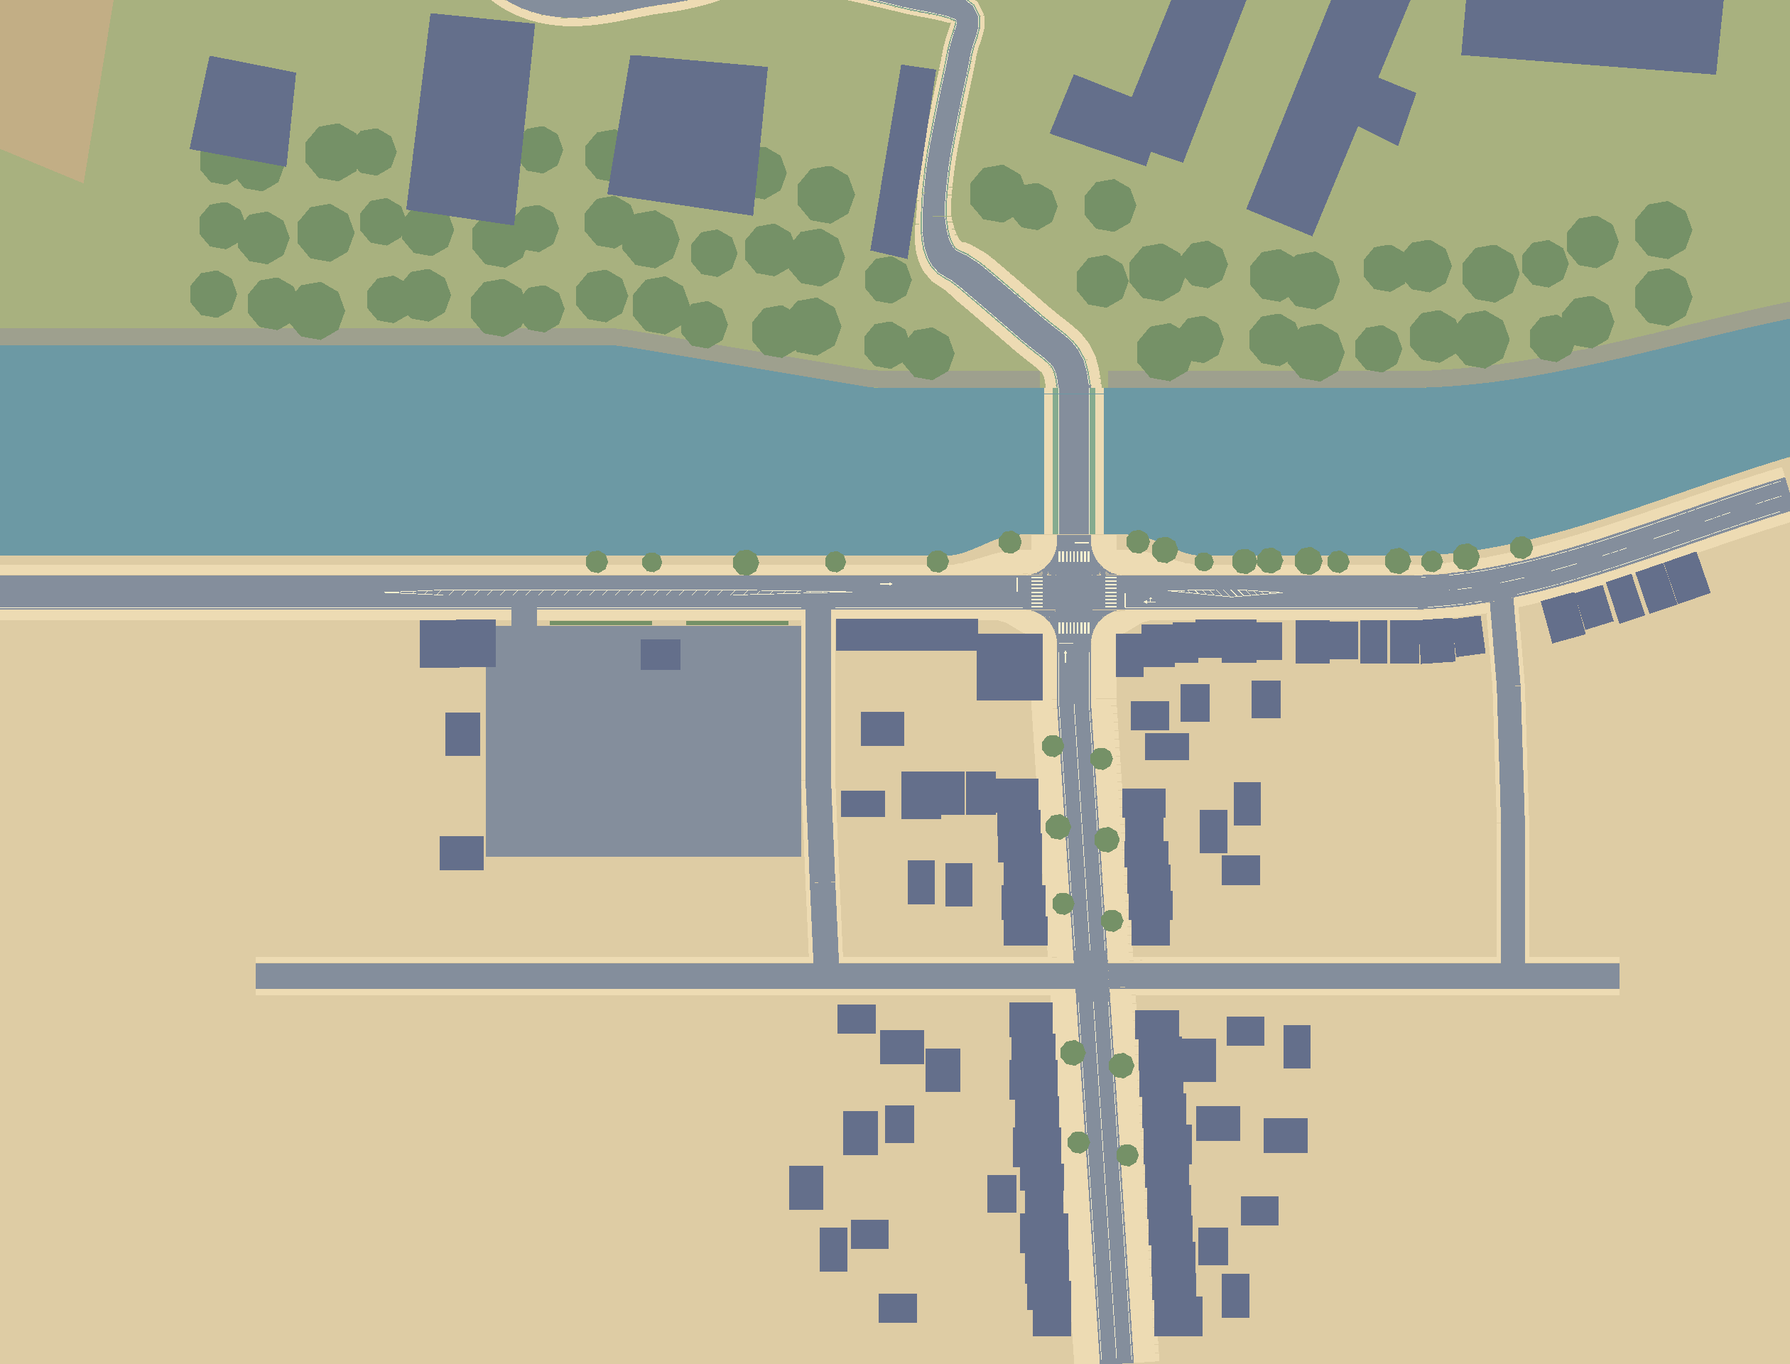
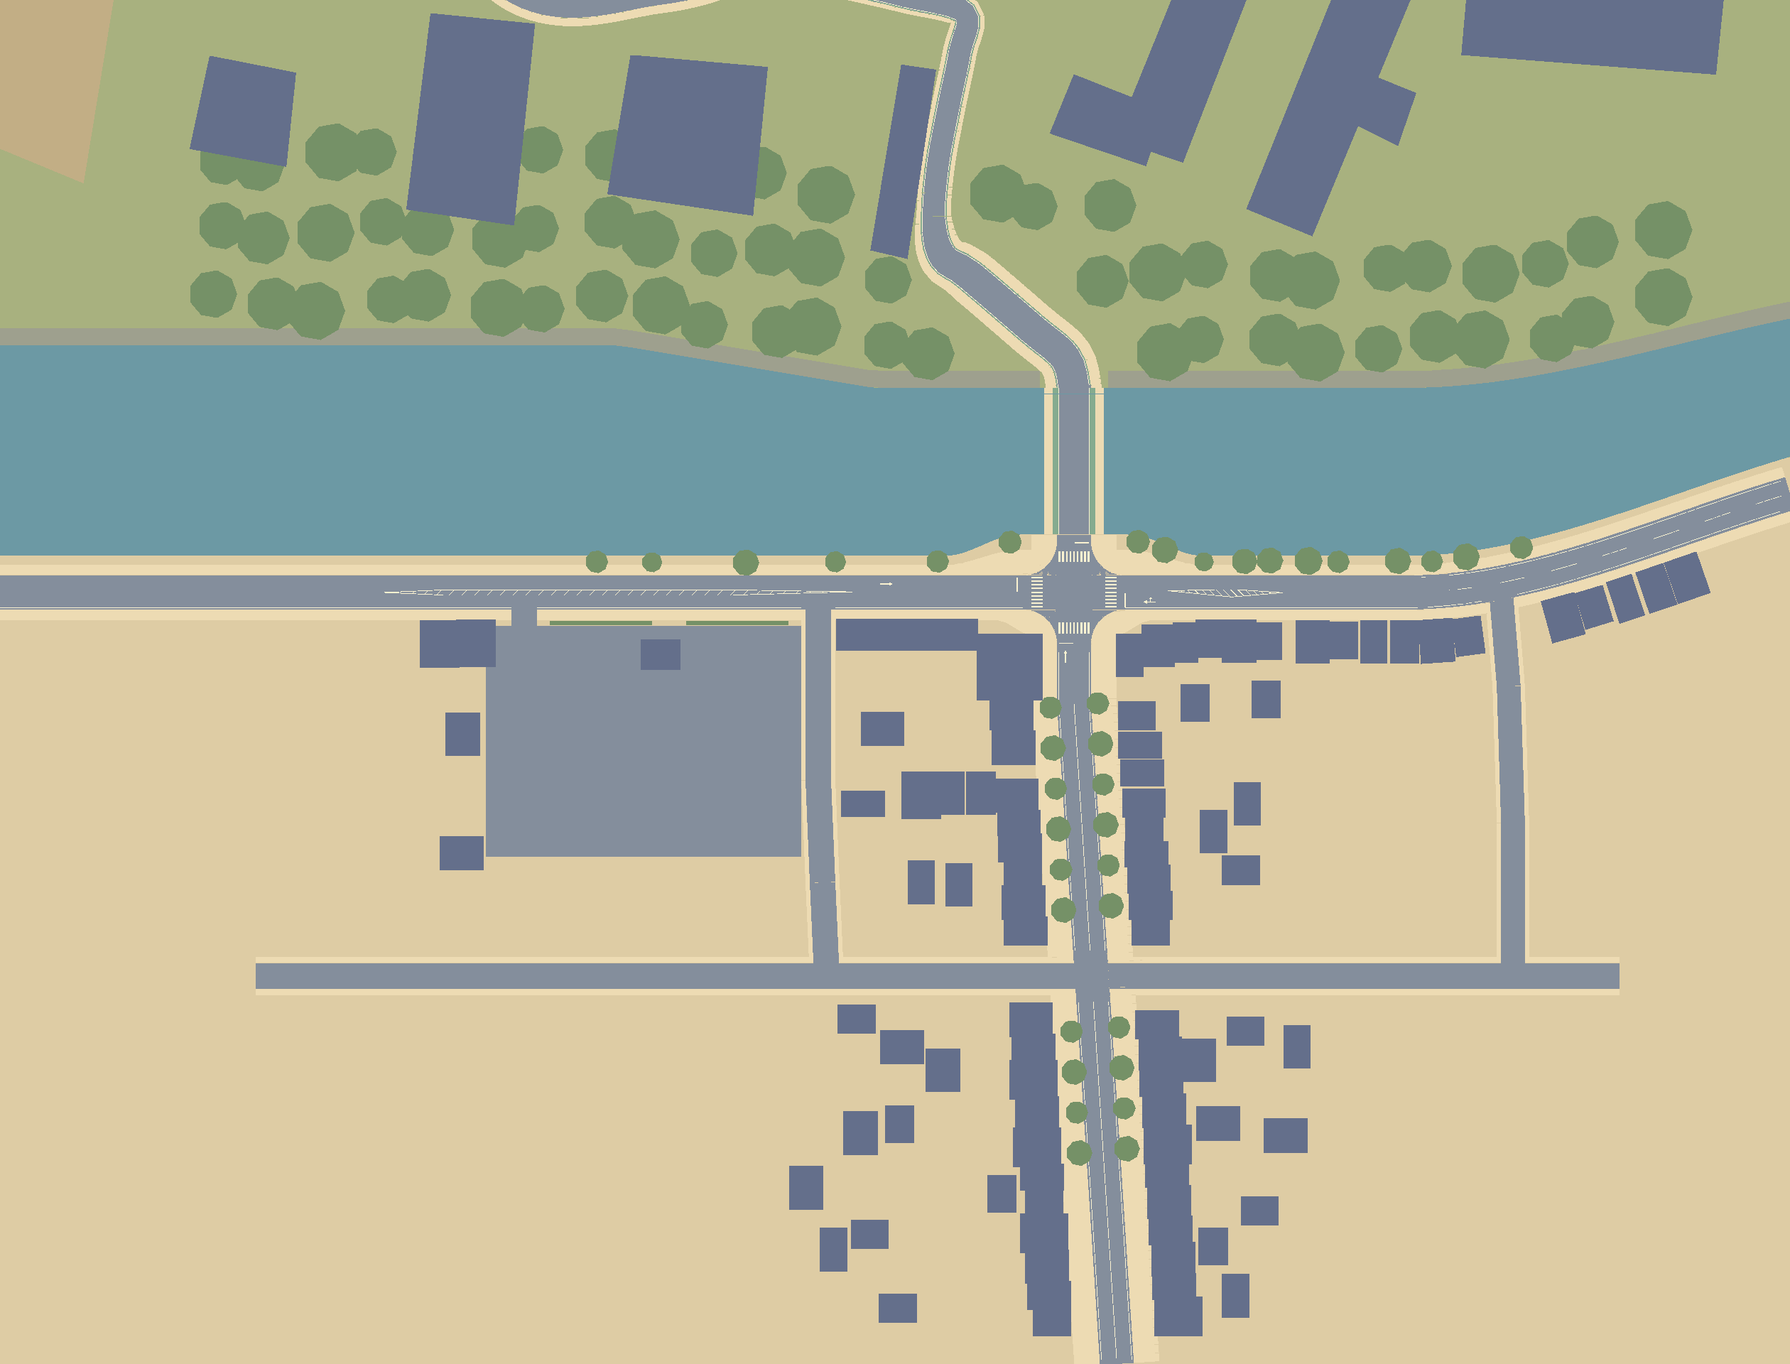
feat(scene): match Castle Road to Street View and the overhead image
Add the blue cantilevered direction sign on Castle Road's west pavement
just south of the junction, showing only the legible destinations
(東近江, E1 名神, 国道8号/Route 8). Plant both kerbs at ~9.5 m to match
the near-continuous canopy, close the frontage gaps beside the junction,
and drop the imported cedars and pines scattered through the town
blocks, which the overhead image does not show.

Changed region(s): [[0.5262, 0.5, 0.681, 0.6875], [0.5881, 0.75, 0.65, 0.875]]

diff --git a/src/signals.js b/src/signals.js
@@ -5,7 +5,7 @@ import { mergeGeometries } from 'three/addons/utils/BufferGeometryUtils.js';
 import { model, material } from './world.js';
 import { painted } from './style.js';
 import { toThree } from './coords.js';
-import { signalPlacements, signalRigs, POLE, ARM_ABOVE_HEAD, ARM_BEYOND_HEAD } from './signal-layout.js';
+import { signalPlacements, signalRigs, GUIDE_SIGNS, POLE, ARM_ABOVE_HEAD, ARM_BEYOND_HEAD } from './signal-layout.js';
 
 const UP = new THREE.Vector3(0, 1, 0);
 
@@ -37,11 +37,13 @@ export async function buildSignals(scene, materials, rigs = signalRigs()) {
   scene.add(root);
   return { root, placements, rigs, heads: placements.length,
     /** Footprints of the poles for obstacles.js (Unity x, z, yaw, [width, length]). */
-    poles: rigs.map(r => { const d = POLE[r.kind].base * 2; return { x: r.pole.x, z: r.pole.z, yaw: 0, size: [d, d] }; }) };
+    poles: [...rigs.map(r => ({ x: r.pole.x, z: r.pole.z, kind: r.kind })),
+      ...GUIDE_SIGNS.map(s => ({ x: s.pole[0], z: s.pole[1], kind: 'guide' }))]
+      .map(({ x, z, kind }) => { const d = POLE[kind].base * 2; return { x, z, yaw: 0, size: [d, d] }; }) };
 }
 
 function buildPosts(rigs) {
-  const brown = [], grey = [], back = [], glass = [], plates = { name: [], phase: [], walk: [] };
+  const brown = [], grey = [], back = [], glass = [], plates = { name: [], phase: [], walk: [], guide: [] };
   // a tube between two Unity points
   const tube = (list, a, b, r0, r1 = r0) => {
     const from = toThree(a.x, a.y, a.z), to = toThree(b.x, b.y, b.z);
@@ -130,6 +132,18 @@ function buildPosts(rigs) {
     for (const y of [2.4, 3.3]) tube(metal, P(y - 0.035), P(y + 0.035), spec.base + 0.025);
     box(metal, P(3.75, -0.17), [0.22, 0.48, 0.16]);
   }
+  // Galvanised cantilever: the arm carries the board over the west lane, held by two short hangers.
+  for (const s of GUIDE_SIGNS) {
+    const [px, pz] = s.pole, [bx, by, bz] = s.board, [w, h] = s.size;
+    tube(grey, { x: px, y: 0.16, z: pz }, { x: px, y: s.height, z: pz }, POLE.guide.base, POLE.guide.top);
+    const armY = by + h / 2 + 0.25, far = bx + w / 2 - 0.15;
+    tube(grey, { x: px, y: armY, z: pz }, { x: far, y: armY, z: pz }, 0.085, 0.06);
+    tube(grey, { x: px, y: armY - 0.75, z: pz }, { x: px + 1.1, y: armY, z: pz }, 0.04);
+    for (const dx of [-w / 3, w / 3]) {
+      tube(grey, { x: bx + dx, y: armY, z: pz }, { x: bx + dx, y: by + h / 2 - 0.05, z: bz - s.facing[1] * 0.05 }, 0.025);
+    }
+    plate(plates.guide, { x: bx, y: by, z: bz }, s.facing, w, h);
+  }
   const meshes = [];
   const add = (list, mat, name) => {
     if (!list.length) return;
@@ -157,13 +171,14 @@ function buildPosts(rigs) {
   add(plates.name, lambert('ART_SignalPlateName', { map: plateTexture('name') }), 'SignalNamePlates');
   add(plates.phase, lambert('ART_SignalPlatePhase', { map: plateTexture('phase') }), 'SignalPhasePlates');
   add(plates.walk, lambert('ART_SignalPlateWalk', { map: plateTexture('walk') }), 'SignalWalkPlates');
+  add(plates.guide, lambert('ART_GuideSignFace', { map: plateTexture('guide') }), 'GuideSignFaces');
   return meshes;
 }
 
 // The plates' faces, drawn once (bilingual name plate, the phase plate, the pedestrian plate).
 const FONT = '"Hiragino Sans", "Hiragino Kaku Gothic ProN", "Noto Sans JP", "Yu Gothic", "Meiryo", sans-serif';
 function plateTexture(kind) {
-  const [w, h] = { name: [400, 300], phase: [600, 184], walk: [100, 400] }[kind];
+  const [w, h] = { name: [400, 300], phase: [600, 184], walk: [100, 400], guide: [520, 340] }[kind];
   const canvas = document.createElement('canvas');
   canvas.width = w; canvas.height = h;
   const g = canvas.getContext('2d');
@@ -182,6 +197,25 @@ function plateTexture(kind) {
     g.fillStyle = '#2652a3';
     g.font = `800 70px ${FONT}`; g.fillText('歩車分離式', w / 2, 61);
     g.font = `700 54px ${FONT}`; g.fillText('7:30 − 18:00', w / 2, 141);
+  } else if (kind === 'guide') {
+    // Only the destinations legible in the October 2024 panorama; no invented distances.
+    g.fillStyle = '#2459a8'; g.fillRect(0, 0, w, h);
+    g.strokeStyle = '#f2f4f2'; g.lineWidth = 6; g.strokeRect(9, 9, w - 18, h - 18);
+    g.fillStyle = g.strokeStyle = '#f2f4f2';
+    g.lineWidth = 16; g.lineCap = 'butt';
+    g.beginPath(); g.moveTo(440, 300); g.lineTo(440, 120); g.moveTo(448, 270); g.lineTo(150, 270); g.stroke();
+    g.beginPath(); g.moveTo(440, 82); g.lineTo(470, 128); g.lineTo(410, 128); g.closePath(); g.fill();
+    g.beginPath(); g.moveTo(108, 270); g.lineTo(152, 242); g.lineTo(152, 298); g.closePath(); g.fill();
+    g.textAlign = 'right';
+    g.font = `700 52px ${FONT}`; g.fillText('東近江', 400, 52);
+    g.font = `500 22px ${FONT}`; g.fillText('Higashiomi', 400, 92);
+    g.textAlign = 'left';
+    g.fillStyle = '#2f7d57'; g.fillRect(34, 118, 228, 58);
+    g.strokeRect(34, 118, 228, 58);
+    g.fillStyle = '#f2f4f2';
+    g.font = `700 40px ${FONT}`; g.fillText('E1 名神', 48, 145);
+    g.font = `700 54px ${FONT}`; g.fillText('国道8号', 36, 212);
+    g.font = `500 24px ${FONT}`; g.fillText('Route 8', 196, 250);
   } else {
     g.fillStyle = '#f4eee0'; g.fillRect(0, 0, w, h);
     g.strokeStyle = '#2652a3'; g.lineWidth = 5; g.strokeRect(5, 5, w - 10, h - 10);

diff --git a/src/road-layout.js b/src/road-layout.js
@@ -95,6 +95,9 @@ export function roadLayout(layout) {
       // The Route 25 row stands at the back of the narrowed footway.
       if (item.r === 0 && z > 14.5 && z < 16.5) item.p[2] += frontageShift(item.a, x, item.s[0]);
     }
+    // Imported cedars and pines scattered through the town blocks are absent from the overhead
+    // image, where the blocks are roofs with occasional broad garden trees.
+    if (item.a === 'HK_Tree_Cedar' || item.a === 'HK_Tree_Pine') continue;
     if (item.g === 'Trees' && (Math.abs(z + 64) < 7 || Math.abs(x - castleX(z)) < 11
       || (x > -107 && x < -32 && z > -43 && z < 16))) continue;
     if (item.g === 'Signs') {
@@ -148,11 +151,18 @@ export function roadLayout(layout) {
   items.push({ a: 'ART_ParkingPavilion', p: [-65, 0.01, 14.6], r: 0, s: [1, 1, 1], g: 'WebFrontage' });
   for (const x of [-87, -79, -71, -55, -47, -39])
     items.push({ a: 'ART_ClippedHedge', p: [x, 0.15, 18.85], r: 0, s: [1, 1, 1], g: 'WebParking' });
-  // Castle Road's formal street-tree row has high clear trunks and low hedge beds.
-  for (const [side, zs] of [[-1, [-10, -29, -47, -82, -103]], [1, [-13, -32, -51, -85, -106]]]) {
+  // Castle Road's formal street-tree rows: near-continuous canopies at ~9.5 m on both kerbs,
+  // from just south of the junction crossing, broken only by the Honmachi cross street.
+  for (const [side, start] of [[-1, -1], [1, 0]]) {
+    const zs = [];
+    for (let z = start; z > -114; z -= 9.5) if (Math.abs(z + 64) > 8.5) zs.push(z);
     for (const [i, z] of zs.entries()) items.push({ a: 'ART_TownTree', p: [castleX(z) + side * 5.6, 0.16, z],
       r: side < 0 ? 180 : 0, s: [0.9 + i % 2 * 0.12, 0.94 + i % 3 * 0.05, 1], g: 'WebTownTrees' });
   }
+  // Close the frontage gaps beside the junction: both sides are continuous eaves-on houses.
+  for (const [a, side, z] of [['HK_Machiya_B', -1, -2.8], ['HK_Machiya_A', -1, -10.4],
+    ['HK_Machiya_A_Narrow', 1, -16.3]])
+    items.push({ a, p: [castleX(z) + side * 10.4, 0.15, z], r: side < 0 ? 90 : 270, s: [1, 1, 1], g: 'WebFrontage' });
   items.push(...CASTLE_ITEMS);
   // Continue the town frontage along the gently bending bank, instead of across the road.
   const facades = ['HK_Machiya_A', 'HK_Kura', 'HK_Machiya_A_Narrow', 'HK_Machiya_B'];

diff --git a/src/web-layout.js b/src/web-layout.js
@@ -37,6 +37,10 @@ export const WEB_FRONTAGES = [
   { x: 58.14, z: 15.45, from: 'HK_Machiya_A_Narrow', to: 'ART_EavesStorehouse', scale: [0.75, 1, 1] },
   { x: 63.96, z: 15.6, from: 'HK_Kura', to: 'ART_ThreeStorey', scale: [1, 1, 1] },
   { x: 18.6, z: 15.6, from: 'HK_Kura', to: 'ART_WestCorner', position: [16.6, 0.15, 15.6], absoluteScale: [1, 1, 1] },
+  // Castle Road's first east-side houses stand at the pavement like the rest of the street
+  // (overhead image); the imported pair was set back 3–6 m. x is before the Castle Road drift.
+  { x: 45.508, z: -2.826, from: 'HK_Kura', to: 'HK_Kura', position: [42.4, 0.15, -2.826], absoluteScale: [1, 1, 1] },
+  { x: 48.735, z: -10.14, from: 'HK_Machiya_A_Narrow', to: 'HK_Machiya_A_Narrow', position: [42.4, 0.15, -9.8], absoluteScale: [1, 1, 1] },
 ];
 export const frontageAt = item => WEB_FRONTAGES.find(f => item.a === f.from
   && Math.hypot(item.p[0] - f.x, item.p[2] - f.z) < 0.01);

diff --git a/src/signal-layout.js b/src/signal-layout.js
@@ -22,9 +22,17 @@ const INSTALLATIONS = [
     walks: [{ crossing: 'east', facing: [0, 1], side: [-1, 0] }] },
 ];
 
+// The blue direction sign cantilevered from Castle Road's west pavement just south of the
+// junction (October 2024 Castle Road panorama), facing traffic leaving the junction southward.
+export const GUIDE_SIGNS = [
+  { id: 'castle-road-guide', pole: [25.6, 6], height: 6.5, board: [27.7, 5.55, 6], size: [2.6, 1.7],
+    facing: [0, 1] },
+];
+
 export const POLE = {
   car: { base: 0.15, top: 0.1 },
   pedestrian: { base: 0.12, top: 0.08 },
+  guide: { base: 0.16, top: 0.12 },
 };
 export const ARM_ABOVE_HEAD = 0.47;
 export const ARM_BEYOND_HEAD = 0.85;

diff --git a/docs/art-and-performance.md b/docs/art-and-performance.md
@@ -19,8 +19,9 @@ Non-obvious conventions:
 - **Bridge and paving:** the local bridge has a 34.4 m authored deck, thick stone horizontal rails/balusters and shaped newels. Its coloured margins are flush with the carriageway, with short transitions to the town's 15 cm kerbs. Continuous edge lines replace the unsupported bridge centre dashes. Four marked crossings include the bridge entrance, confirmed in the [close satellite view](https://www.google.com/maps/@?api=1&map_action=map&center=35.27246,136.2526297&zoom=20&basemap=satellite). The five signal installations and six pedestrian heads remain; no extra head is inferred from the fourth set of markings. `ART_PavingDetails` contains tactile guidance/warning tiles, pavement joints, drains and manhole covers sampled against generated ground. Low relief does not cast into the sun map or block bodies. Castle Road's continuous centre/edge lines stop at the Honmachi intersection.
 - **Overhead road plan:** [Google satellite imagery](https://www.google.com/maps/@35.2725151,136.2517411,254m/data=!3m1!1e3) guides `tools/road_network.py`. Route 25 continues into a gentle eastward bend; the bridge connects to a curved northern approach. Castle Road continues south through the relocated Honmachi cross street. The large western parking forecourt has two access lanes; the eastern hotel-side alley joins the through road. The moat side of Route 25 (中壕東西通り) follows the [October 2024 junction panorama looking west](https://www.google.com/maps/@?api=1&map_action=pano&pano=2ktrhAY4ZkkBfA6R_NUjeQ&heading=285&pitch=0&fov=90) and the close overhead image: away from the bridge-foot signal corners it is a 2.5 m footway, then a ~2 m planted strip with the chain fence at the stone edge (4.6 m from kerb to water instead of the former 9.6 m). The shore and footway taper back over 17 m to the unchanged corners; `shore_taper` in `tools/road_network.py` and `shoreTaper` in `src/road-layout.js` share the profile, and bank trees, shrub patches, fence, path lamps and the tactile strip follow it. The town side is likewise a 2.5 m footway with the Route 25 frontage at its back: beyond the corner fillets (`town_taper`/`townTaper`, an 8 m taper starting just outside Castle Road's pavements) the footway's back edge moves 3.5 m toward the road. Each frontage building moves only as far as its least-tapered end allows (`frontageShift`), so the two corner buildings keep their place behind a paved forecourt and no wall or eave stands on the raised footway. The distribution poles stand at the kerb side of the narrow footway, the parking lot's asphalt reaches the hedge beds behind it, and walking events 03/04/06/09 start on the narrowed footway. The old right-angle return, extra signalised T-junction, rectangular gate court and two invented road-spanning gatehouses are removed. `src/road-layout.js` clears building footprints from the revised streets, relocates frontages and follows the bend with bank vegetation and utilities. This is an approximate visual reconstruction, not a georeferenced survey. Warm/cool pigments and brushwork remain impressionist.
 - **Street-view vehicle:** `ART_KeiBox` is a sliding-door tall kei wagon based on the white box-shaped cars visible at the junction. It replaces the ordinary `kei-tall` rendering in both live traffic and replay, retaining the existing collision envelope, 2.52 m wheelbase, steering and traffic timing. It has no manufacturer branding or photographed registration number. The source `HK_Kei_Tall` remains available for comparison.
+- **Direction sign:** the same Castle Road panorama shows a blue cantilevered guide sign on the west pavement just south of the junction, facing traffic leaving southward. `GUIDE_SIGNS` in `src/signal-layout.js` places it; `src/signals.js` merges its galvanised pole/arm with the signal posts and draws the face once on a canvas (one extra draw call). Only the legible destinations are shown — 東近江/Higashiomi ahead, E1 名神 and 国道8号/Route 8 to the left; small lettering and distances are not invented. Its pole is a fixed obstacle like the signal posts.
 - **Regulatory signs:** the confirmed eastern Route 25 pole pairs 40 km/h with no parking. Castle Road's confirmed southbound-view pole pairs 30 km/h with no parking. The western frontage and western bridge entrance have single no-parking discs. Unconfirmed imported school-warning diamonds, parking-exit stop sign and opposite Castle Road speed pole are omitted. Exact exemption times and small supplementary lettering are omitted rather than invented. The single-disc source assets remain available; authored digits read from the front.
-- **Northern bank and street planting:** the [bridge panorama, November 2022](https://www.google.com/maps/@?api=1&map_action=pano&pano=-5hhseJHQjBAgFhagQ4LIg&heading=24.7&pitch=0) supplements October 2024 junction imagery for the sloped stonework, flush margins and broad canopy. A 3 m raised bank, its backslope and road-side retaining faces are simplified visible masses, not surveyed elevations. The same terrain polygons feed the renderer and `Ground`; reviewed grove roots use that profile. Broad canopy masses replace the imported conifer grid and misplaced miniature castle compound. Castle Road receives high-trunk trees with narrow hedge beds aligned to the street. Individual leaves, hidden retaining-wall construction and unobserved school elevations are omitted.
+- **Northern bank and street planting:** the [bridge panorama, November 2022](https://www.google.com/maps/@?api=1&map_action=pano&pano=-5hhseJHQjBAgFhagQ4LIg&heading=24.7&pitch=0) supplements October 2024 junction imagery for the sloped stonework, flush margins and broad canopy. A 3 m raised bank, its backslope and road-side retaining faces are simplified visible masses, not surveyed elevations. The same terrain polygons feed the renderer and `Ground`; reviewed grove roots use that profile. Broad canopy masses replace the imported conifer grid and misplaced miniature castle compound. Castle Road receives high-trunk trees with narrow hedge beds on both kerbs at about 9.5 m, from just south of the junction crossing to the Honmachi cross street and beyond, matching the near-continuous canopy in the [overhead image](https://www.google.com/maps/@35.27175,136.25205,20z/data=!3m1!1e3) and the [October 2024 Castle Road panorama](https://www.google.com/maps/@?api=1&map_action=pano&pano=Ec4s74rI5EEPdh3jSxAoqw&heading=200&pitch=0&fov=90). The imported cedars and pines scattered through the town blocks are removed: the overhead image shows roofs with occasional broad garden trees, which remain. Castle Road's frontage is continuous at the pavement on both sides beside the junction; the set-back imported pair on the east side moves forward and three existing house models close the gaps. Individual leaves, hidden retaining-wall construction and unobserved school elevations are omitted.
 - **Hikone hilltop landmark:** `tools/hikone_castle.py` authors `ART_HikoneKeep` and `HK_Terrain_Hikone` from [Google satellite imagery](https://www.google.com/maps/@?api=1&map_action=map&center=35.276452,136.251846&zoom=21&basemap=satellite), the [December 2016 courtyard panorama](https://www.google.com/maps/@?api=1&map_action=pano&pano=CIHM0ogKEICAgICEyaLs4wE&heading=0&pitch=12&fov=80), and the [city's conservation plan](https://www.city.hikone.lg.jp/material/files/group/4/Hikonejo_Kenzobutsu_HozonKatsuyo_Keikaku.pdf). The three storeys have broad tiled irimoya roofs, triangular chidori and curved karahafu gables, warm plaster, dark katomado windows, corner verandas and a battered irregular-stone base. A square attached turret and bent, low tamon wing follow the satellite plan's northern/eastern extension; the main ridge runs northwest/southeast. `src/castle-layout.js` registers the keep's map coordinate approximately against the bridge and the local road's 32° bearing. The keep is about 450 m beyond the bridge, on an approximately 49.5 m hilltop rise. The wooded hill is a simplified distant mass, not surveyed contours; both models stay beyond the practice rectangle. The reviewed bridge-to-Otemon approach is described below; interiors, unseen gates and new playable castle grounds are omitted. Existing bank trees remain in front and can naturally obscure the landmark. Warm/cool pigments retain the impressionist palette.
 - **Distant landmark rendering:** the keep's light LOD removes window mouldings, individual lattice bars and tile rolls, retaining the roof and gable outlines. The broad hill stays in one instanced draw per selected detail instead of many terrain cells. Landmark materials alone extend atmospheric depth by a factor of 0.55; town fog is unchanged, and cameras see to 900 m so the real placement is not clipped. These use the existing pigment shader and ordinary depth testing, with no post-processing or per-frame model work. Inspect `?view=castle-panorama|castle-detail|castle-site`; the panorama can show a partially screened skyline, while the detail view is an inspection camera outside the practice area.
 - **Western frontage:** the low timber/plaster longhouse replaces two generic two-storey houses beside the corner compound. The parking service pavilion keeps its observed gabled roof, white band, lower wall and small high windows on the road side; hidden entrances are omitted. Low hedge beds replace imported wall fragments and leave both driveways open. The observed cantilever parking board retains only its P symbol and arrow toward the forecourt. Approximate dimensions fit the existing forecourt; names, small symbols, room layouts and transient parked cars are omitted. The western central hatch and eastern dashed centre line follow the observed road character. Carriageway envelopes and authored vehicle paths remain the same.
